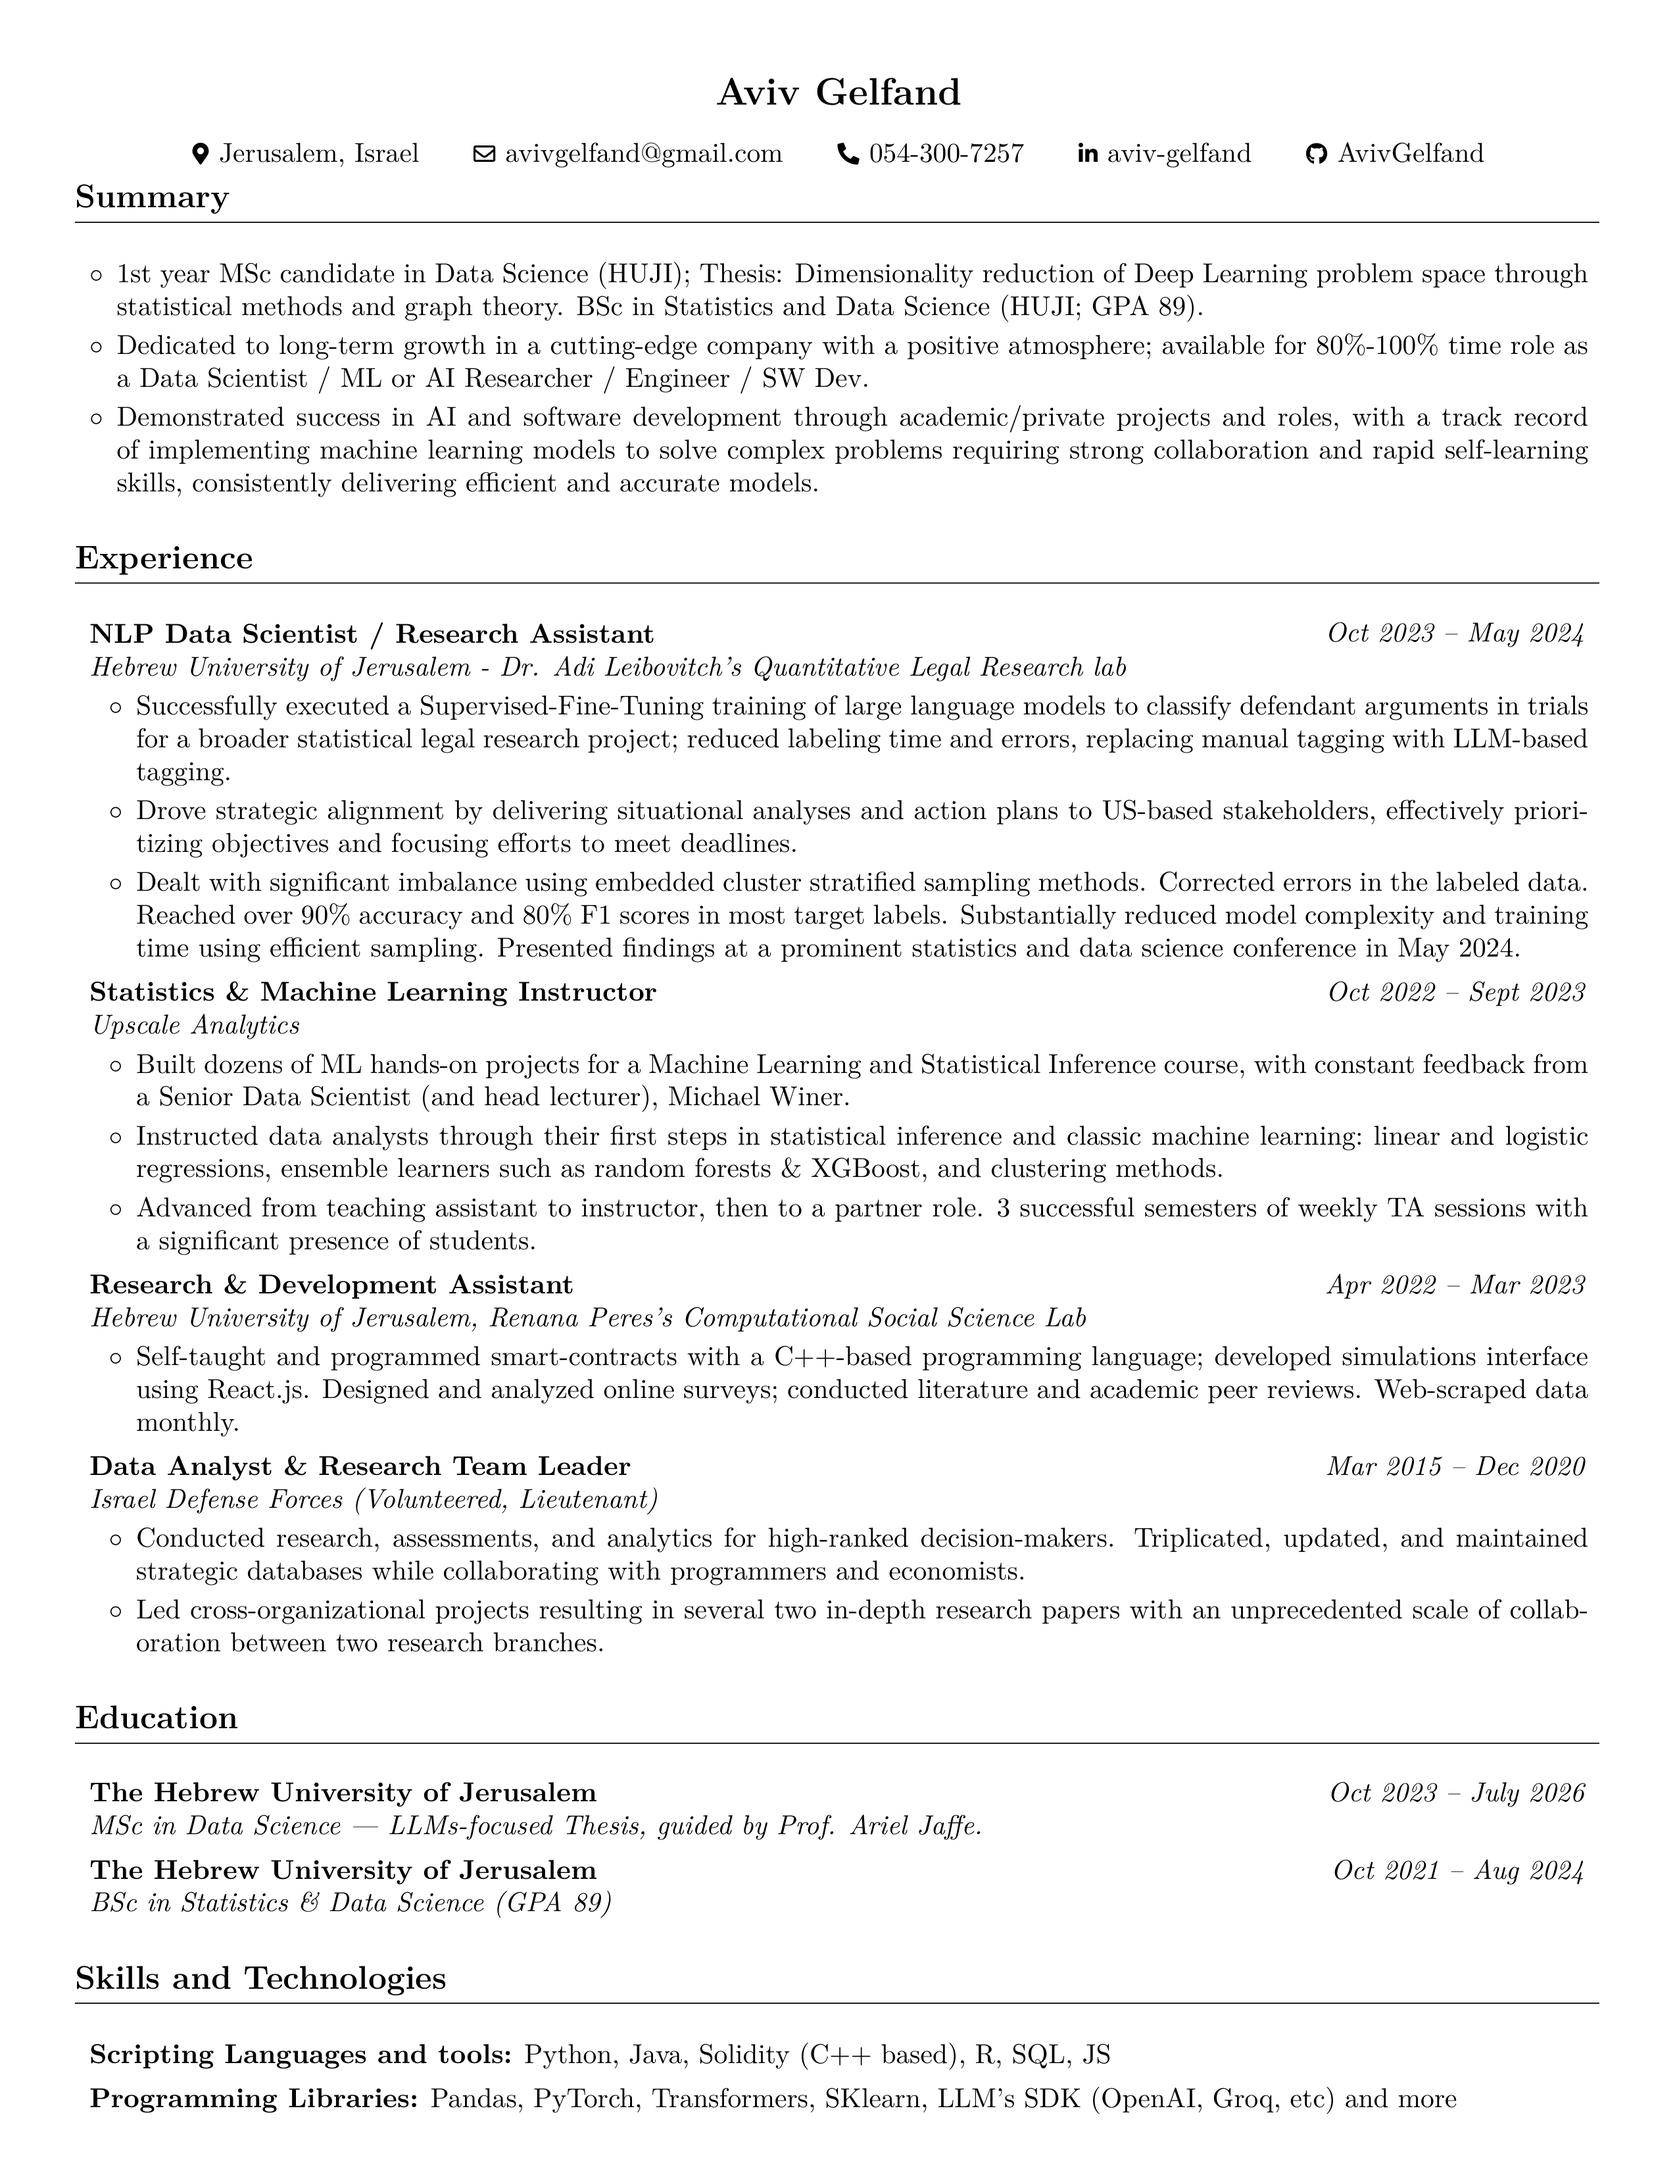
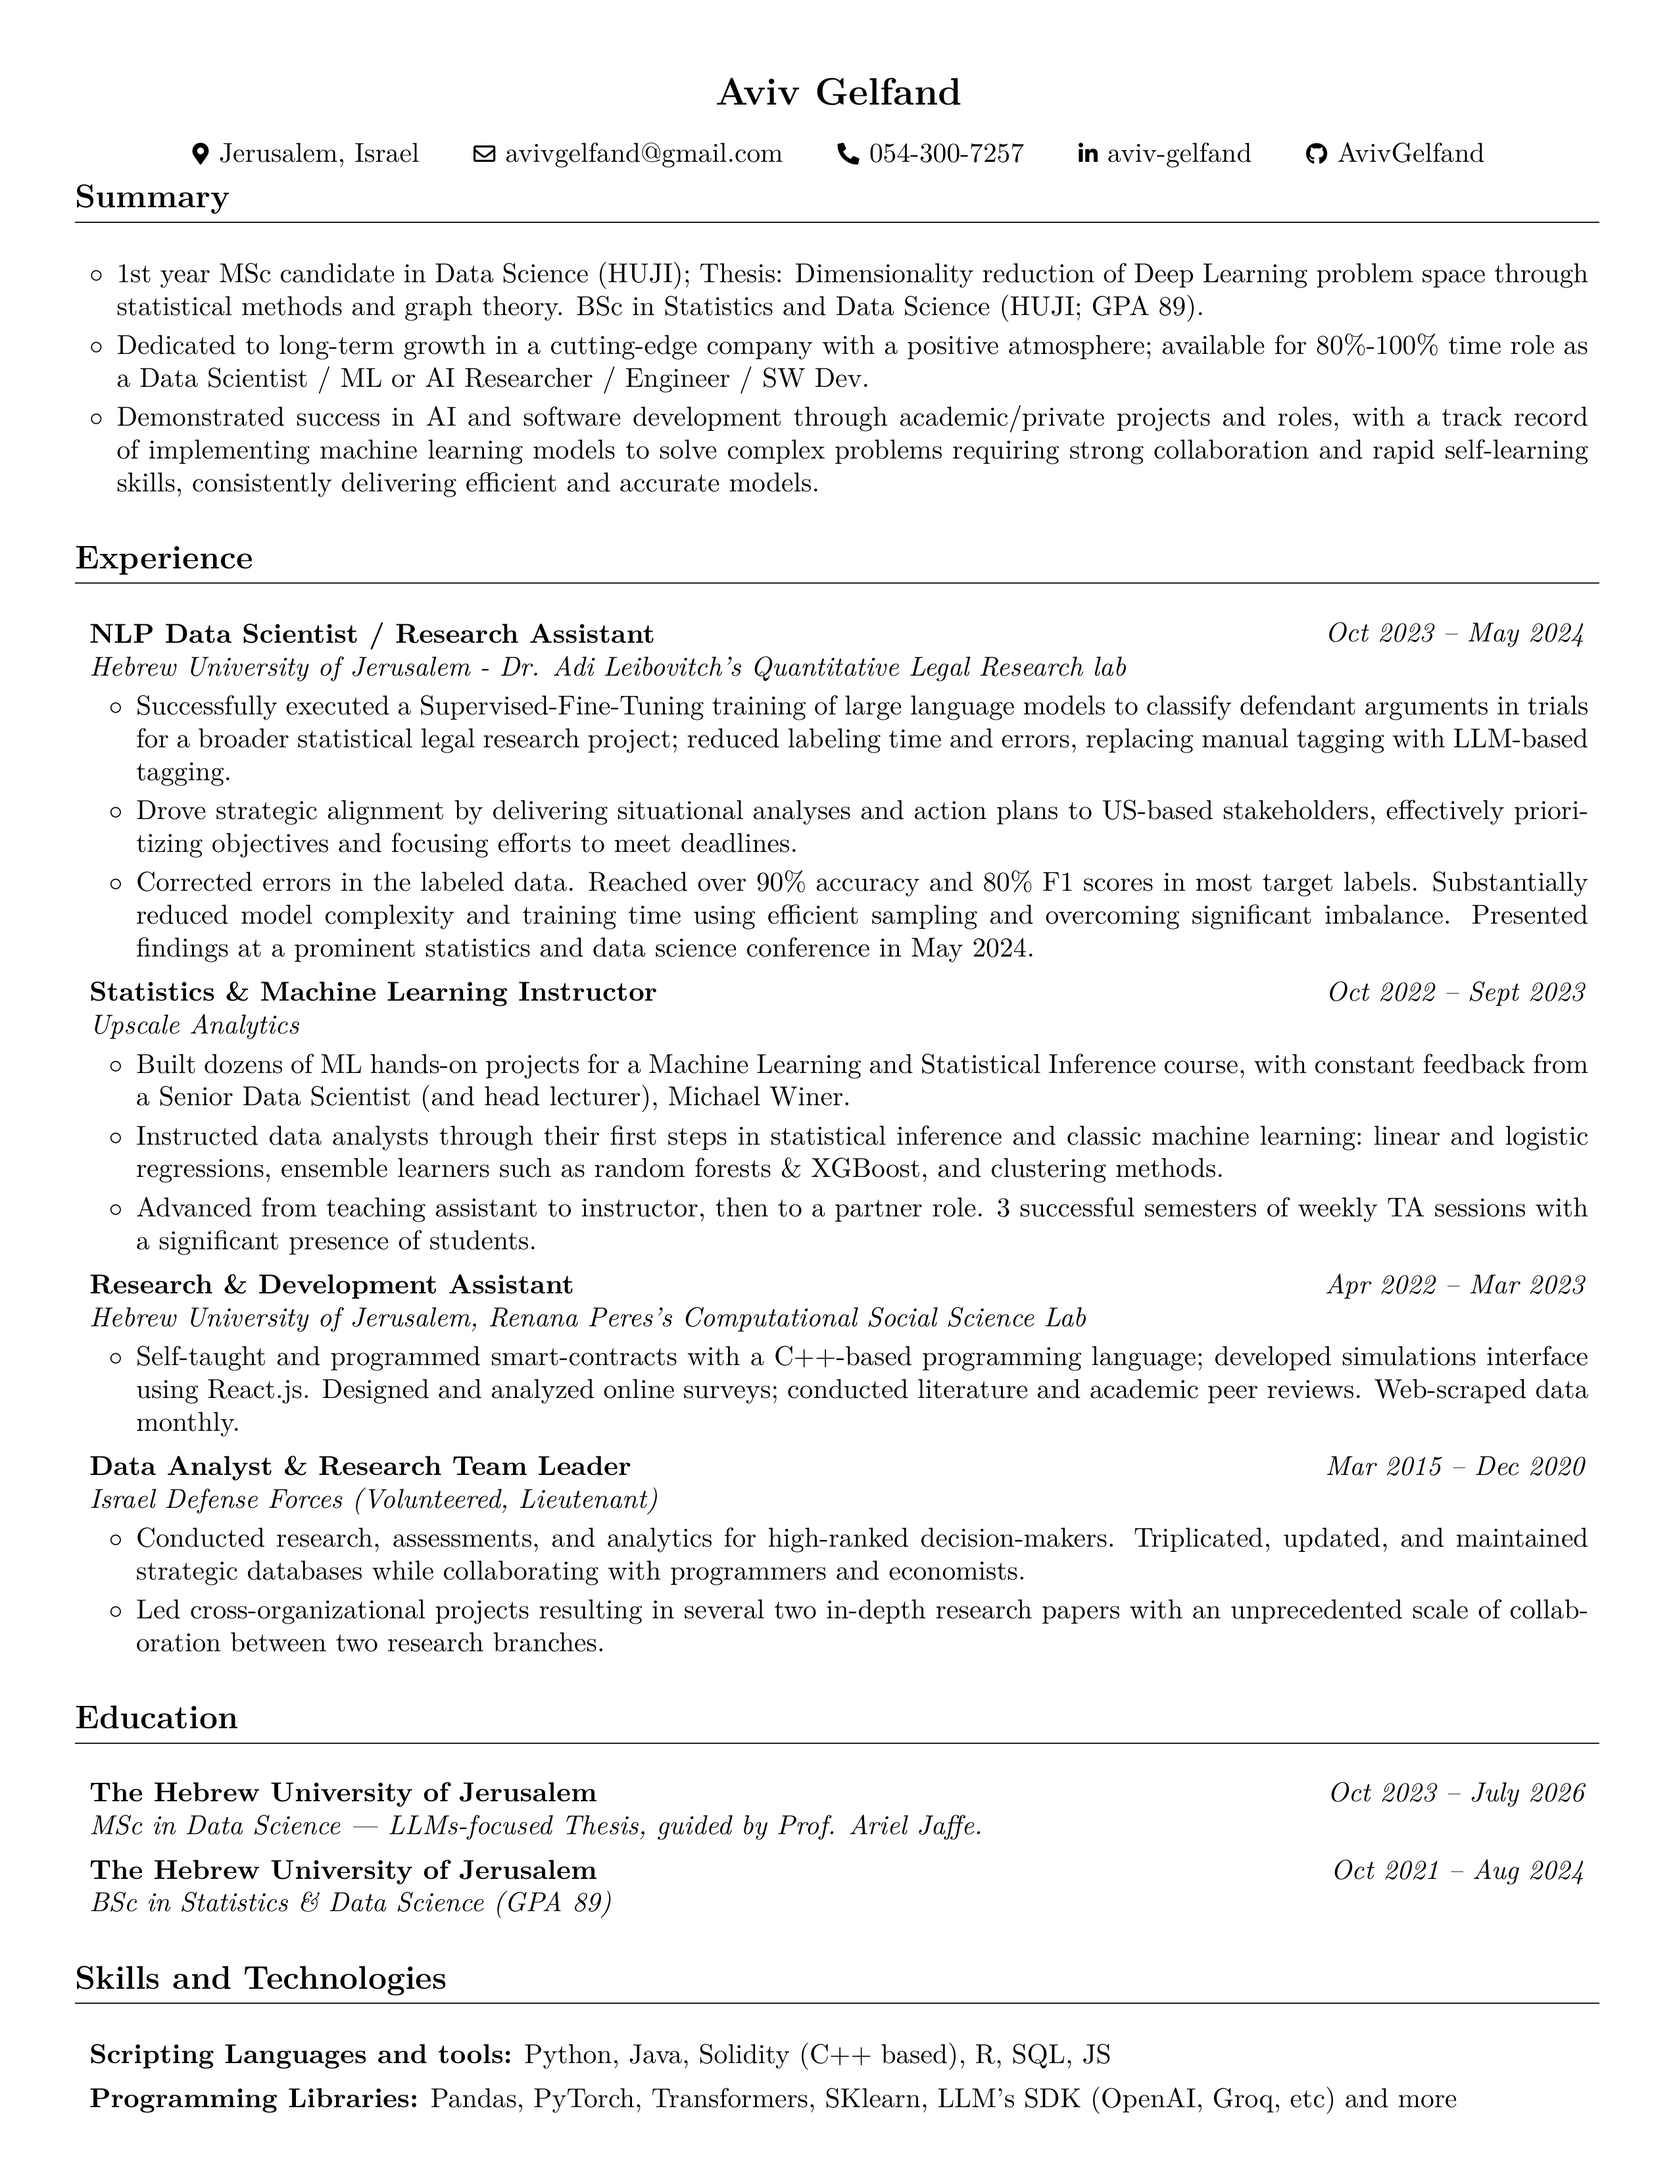
Render the latest CV

Changed region(s): [[0.0929, 0.4058, 0.9604, 0.437]]

diff --git a/Aviv_Gelfand_CV.html b/Aviv_Gelfand_CV.html
@@ -52,7 +52,7 @@
         <li>Oct 2023 – May 2024</li>
         <li>Successfully executed a Supervised-Fine-Tuning training of large language models to classify defendant arguments in trials for a broader statistical legal research project; reduced labeling time and errors, replacing manual tagging with LLM-based tagging.</li>
         <li>Drove strategic alignment by delivering situational analyses and action plans to US-based stakeholders, effectively prioritizing objectives and focusing efforts to meet deadlines.</li>
-        <li>Dealt with significant imbalance using embedded cluster stratified sampling methods. Corrected errors in the labeled data. Reached over 90% accuracy and 80% F1 scores in most target labels. Substantially reduced model complexity and training time using efficient sampling. Presented findings at a prominent statistics and data science conference in May 2024.</li>
+        <li>Corrected errors in the labeled data. Reached over 90% accuracy and 80% F1 scores in most target labels. Substantially reduced model complexity and training time using efficient sampling and overcoming significant imbalance. Presented findings at a prominent statistics and data science conference in May 2024.</li>
         </ul>
         <h2>Upscale Analytics, Statistics &amp; Machine Learning Instructor</h2>
         <ul>

diff --git a/Aviv_Gelfand_CV.tex b/Aviv_Gelfand_CV.tex
@@ -210,7 +210,7 @@
             \begin{highlights}
                 \item Successfully executed a Supervised-Fine-Tuning training of large language models to classify defendant arguments in trials for a broader statistical legal research project; reduced labeling time and errors, replacing manual tagging with LLM-based tagging.
                 \item Drove strategic alignment by delivering situational analyses and action plans to US-based stakeholders, effectively prioritizing objectives and focusing efforts to meet deadlines.
-                \item Dealt with significant imbalance using embedded cluster stratified sampling methods. Corrected errors in the labeled data. Reached over 90\% accuracy and 80\% F1 scores in most target labels. Substantially reduced model complexity and training time using efficient sampling. Presented findings at a prominent statistics and data science conference in May 2024.
+                \item Corrected errors in the labeled data. Reached over 90\% accuracy and 80\% F1 scores in most target labels. Substantially reduced model complexity and training time using efficient sampling and overcoming significant imbalance. Presented findings at a prominent statistics and data science conference in May 2024.
             \end{highlights}
         \end{onecolentry}
 

diff --git a/README.md b/README.md
@@ -21,7 +21,7 @@
 - Oct 2023 – May 2024
 - Successfully executed a Supervised-Fine-Tuning training of large language models to classify defendant arguments in trials for a broader statistical legal research project; reduced labeling time and errors, replacing manual tagging with LLM-based tagging.
 - Drove strategic alignment by delivering situational analyses and action plans to US-based stakeholders, effectively prioritizing objectives and focusing efforts to meet deadlines.
-- Dealt with significant imbalance using embedded cluster stratified sampling methods. Corrected errors in the labeled data. Reached over 90% accuracy and 80% F1 scores in most target labels. Substantially reduced model complexity and training time using efficient sampling. Presented findings at a prominent statistics and data science conference in May 2024.
+- Corrected errors in the labeled data. Reached over 90% accuracy and 80% F1 scores in most target labels. Substantially reduced model complexity and training time using efficient sampling and overcoming significant imbalance. Presented findings at a prominent statistics and data science conference in May 2024.
 
 ## Upscale Analytics, Statistics & Machine Learning Instructor
 
